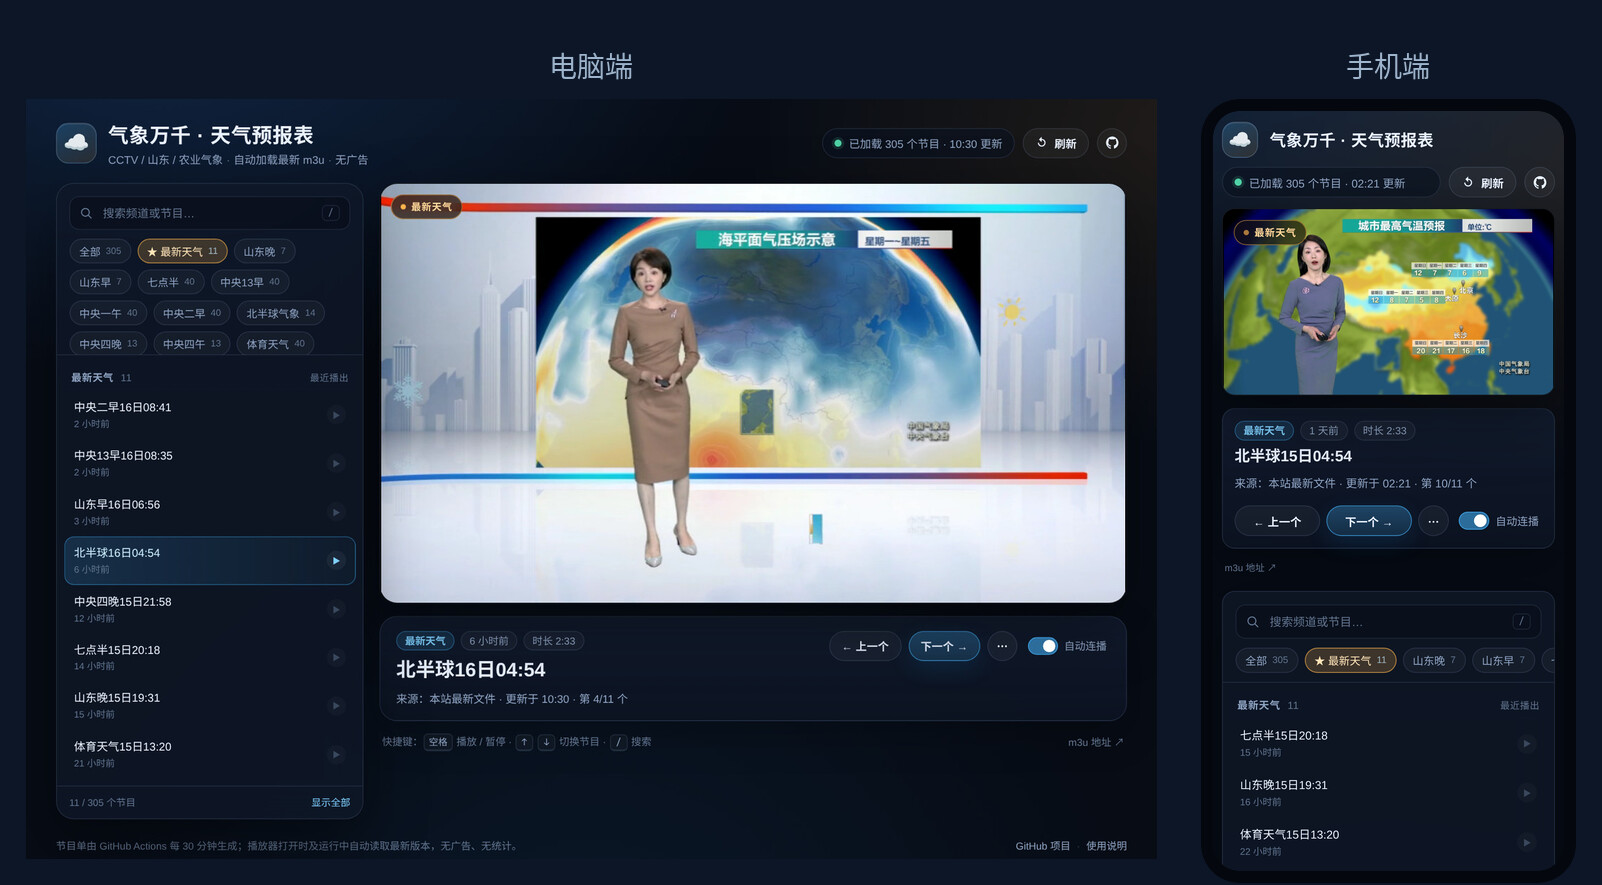
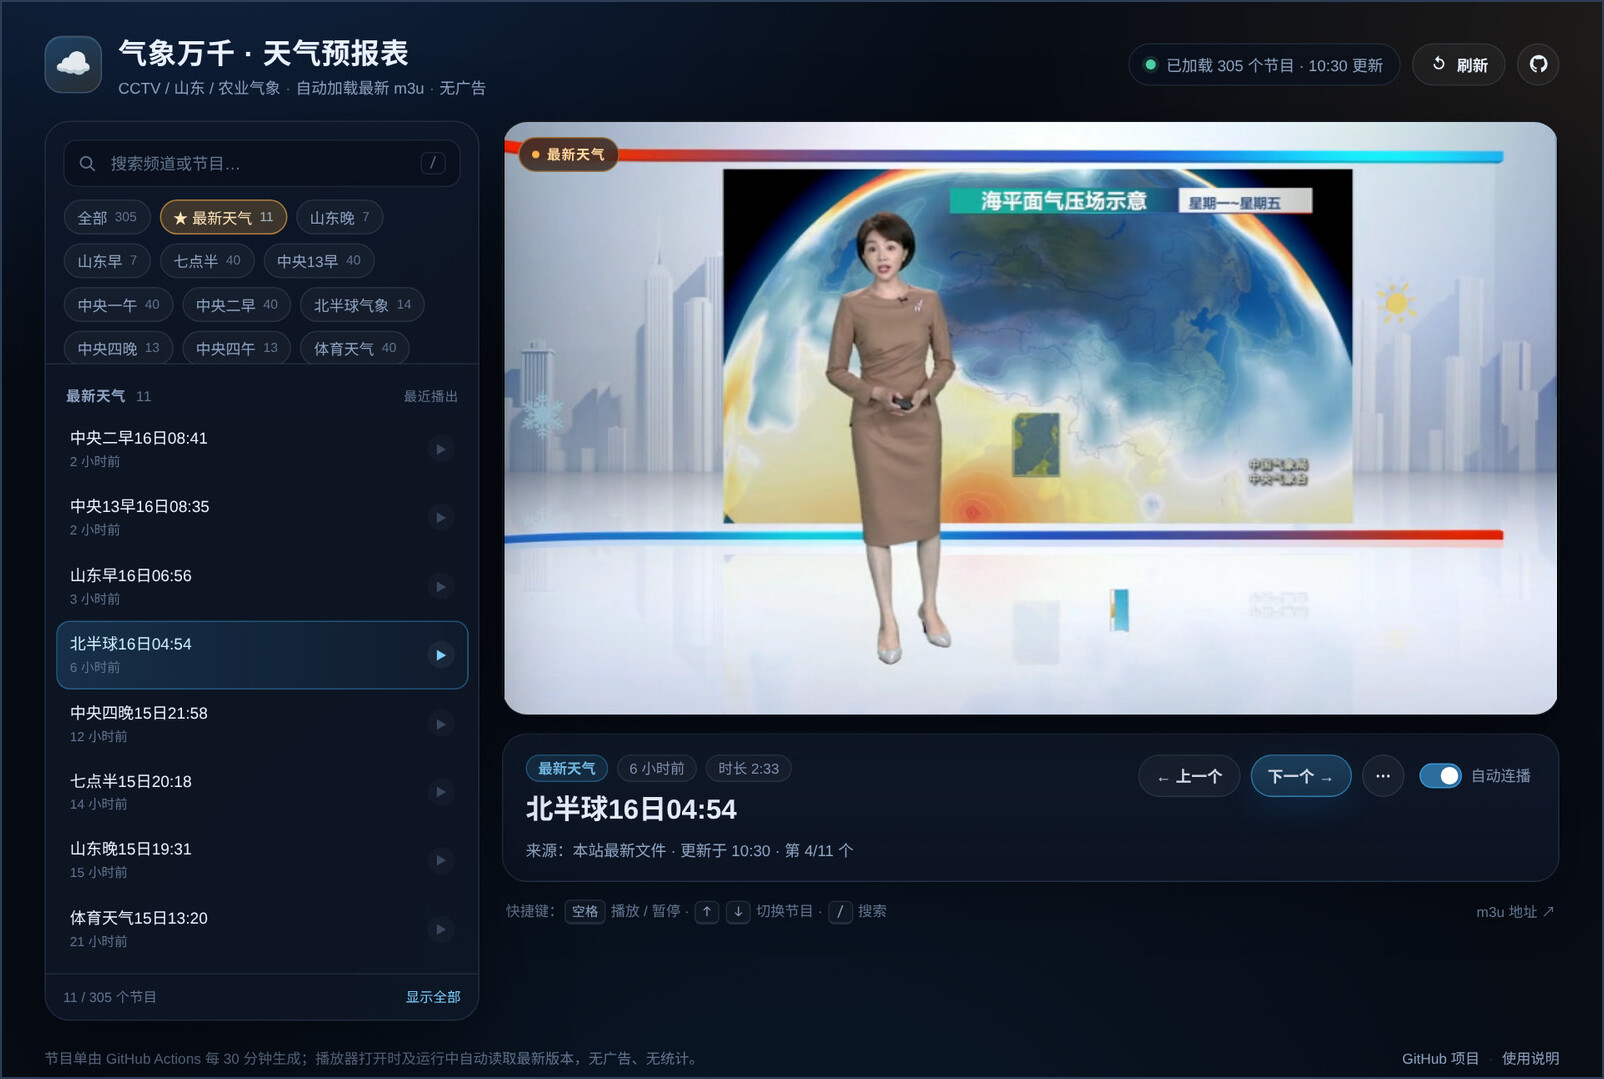
Place equal-height desktop and mobile screenshots side by side

diff --git a/README.md b/README.md
@@ -42,7 +42,13 @@ node app.js > tq.m3u
 
 [![在线演示](https://img.shields.io/badge/▶%20在线演示-打开天气播放器-2ea6ff?style=for-the-badge)](https://andrewgoal.github.io/cctv_weather_forecasting_m3u/)
 
-[![在线演示器截图：左侧为电脑端界面，右侧为手机端界面](demo.jpg)](https://andrewgoal.github.io/cctv_weather_forecasting_m3u/)
+<p align="center">
+  <a href="https://andrewgoal.github.io/cctv_weather_forecasting_m3u/"><img src="demo.jpg" height="420" alt="电脑端界面：节目单与播放器"></a>
+  &nbsp;&nbsp;
+  <a href="https://andrewgoal.github.io/cctv_weather_forecasting_m3u/"><img src="demo-mobile.jpg" height="420" alt="手机端界面：播放器、节目信息与节目单"></a>
+  <br>
+  <sub>左：电脑端 · 右：手机端</sub>
+</p>
 
 - 打开页面即自动加载**最新** m3u，无需手动导入；GitHub Actions 每 30 分钟生成 m3u 并同步部署演示页
 - 打开页面即自动播放；浏览器限制「带声音自动播放」时，会先静音播放并提示，点击页面任意处即可开启声音
